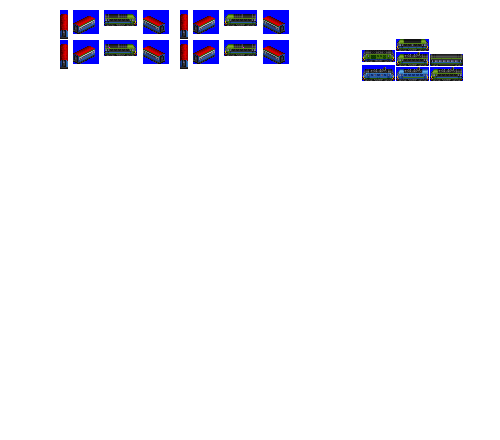
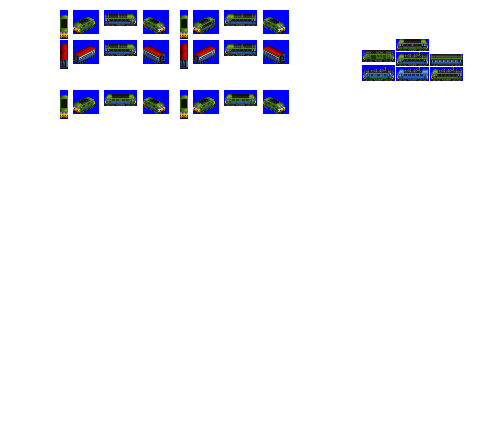
Change: more WIP on high speed pax units

diff --git a/src/vehicles/brenner_middle.py b/src/vehicles/brenner_middle.py
@@ -10,7 +10,8 @@ def main(roster):
                                                         pantograph_type='z-shaped-single',
                                                         power=0,  # set power 0, when attached to correct cab, cab power will be increased
                                                         gen=6,
-                                                        intro_date_offset=-3)  # introduce earlier than gen epoch by design
+                                                        intro_date_offset=-3,  # introduce earlier than gen epoch by design
+                                                        sprites_complete=False)
 
     consist.add_unit(type=ElectricHighSpeedPaxUnit,
                      weight=55,
